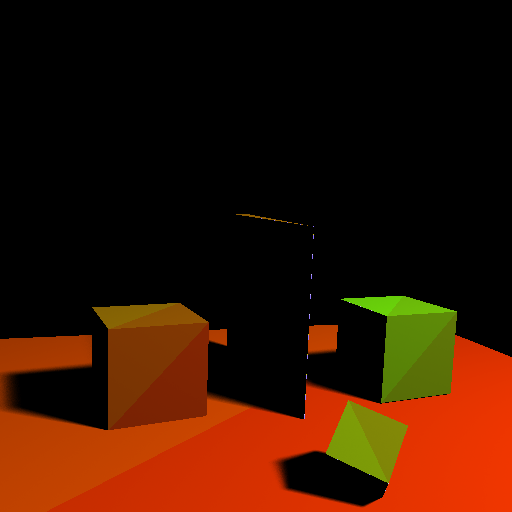
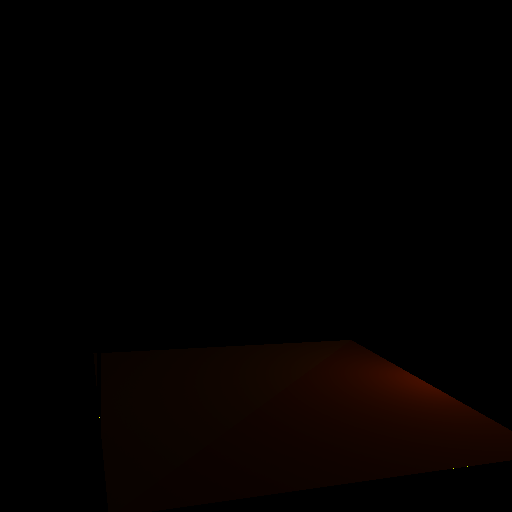
partie 6 Ok

diff --git a/tuto_ray1.cpp b/tuto_ray1.cpp
@@ -102,35 +102,66 @@ float oneFloat( )
     return drand48();
 }
 
+double distance(const gk::Point &p, const gk::Point &q)
+{
+    return sqrt( pow(p.x - q.x, 2) + pow(p.y - q.y, 2) + pow(p.z - q.z, 2)  );
+}
 
-gk::Color direct( const gk::Point& p, const gk::Normal& n, const gk::MeshMaterial& material )
+gk::Color direct( const gk::Point& p, const gk::Normal& n, const gk::MeshMaterial& material , bool proportionnelle)
 {
     gk::Color color(0,0,0);
-    unsigned int nbRayon = 200;
+    unsigned int nbRayon(1000);
     const float r = material.diffuse_color.r, g = material.diffuse_color.g, b = material.diffuse_color.b;
-    const float kd = material.kd;
-    //std::cout<<kd<<std::endl;
 
-    #pragma omp parallel for schedule(dynamic,1)
-    for (unsigned int i = 0; i < sources.size(); ++i)
-    {
-        for (unsigned int j = 1; j < nbRayon+1; ++j)
+    if(!proportionnelle) {
+        //repartition égale des rayons par sources de lumières
+        #pragma omp parallel for schedule(dynamic,1)
+        for (unsigned int i = 0; i < sources.size(); ++i)
         {
-            gk::Point pointSources;
-            float proba = sources[i].triangle.sampleUniform(oneFloat(),oneFloat(),pointSources); // choisi un point aléatoirement sur le triangle   
-                                                                                                 //et retourne la probabilité que le point soit choisi
-            gk::Ray ray(p, pointSources);  // construire le rayon entre le point et la source
-            gk::Hit hit(ray);   // preparer l'intersection
+            for (unsigned int j = 1; j < (nbRayon+1)/sources.size(); ++j)
+            {
+                gk::Point pointSources;
+                float proba = sources[i].triangle.sampleUniform(oneFloat(),oneFloat(),pointSources); // choisi un point aléatoirement sur le triangle   
+                                                                                                    //et retourne la probabilité que le point soit choisi
+                gk::Ray ray(p, pointSources);  // construire le rayon entre le point et la source
+                gk::Hit hit(ray);   // preparer l'intersection
 
-            //float theta = n * ray.d;
-            
-            if(!intersect(ray, hit,true)) { // si pas d'objet entre la source de lumière et la point 
-               color += gk::Color(r, g, b) * - gk::Dot(n, gk::Normalize(p-pointSources))/nbRayon;
+                if(!intersect(ray, hit,true)) { // si pas d'objet entre la source de lumière et la point 
+                    color += gk::Color(r , g , b ) * ( -gk::Dot(n, gk::Normalize(p-pointSources)) )/nbRayon;
+                }
             }
         }
+        #pragma omp barrier
     }
-    #pragma omp barrier
+    else {
 
+        //repartition des rayons proportionnelle à la tailles des sources de lumières
+
+        double surfaceTotale(0.0);
+        //std::vector<double> v.resize(sources.size());
+
+        for (unsigned int i = 0; i < sources.size(); ++i)
+            surfaceTotale += sources[i].triangle.area();
+
+        #pragma omp parallel for schedule(dynamic,1)
+        for (unsigned int i = 0; i < sources.size(); ++i)
+        {
+            double aire = sources[i].triangle.area();
+            for (unsigned int j = 1; j < aire/surfaceTotale*nbRayon; ++j)
+            {
+                gk::Point pointSources;
+                float proba = sources[i].triangle.sampleUniform(oneFloat(),oneFloat(),pointSources); // choisi un point aléatoirement sur le triangle   
+                                                                     //et retourne la probabilité que le point soit choisi
+                gk::Ray ray(p, pointSources);  // construire le rayon entre le point et la source
+                gk::Hit hit(ray);   // preparer l'intersection
+
+                if(!intersect(ray, hit,true)) { // si pas d'objet entre la source de lumière et la point 
+                    color += gk::Color(r, g, b) * ( -gk::Dot(n, gk::Normalize(p-pointSources)) )/nbRayon;
+                }
+            }
+        }
+        #pragma omp barrier
+    }
     return color;
 }
 
@@ -156,7 +187,7 @@ int main( )
     srand48( time(NULL) );
     
     // charger un objet
-    mesh= gk::MeshIO::readOBJ("geometry.obj");
+    mesh= gk::MeshIO::readOBJ("emission.obj");
     if(mesh == NULL) return 1;
 
     build_sources(mesh);        // recupere les sources de lumiere
@@ -164,6 +195,7 @@ int main( )
    
     // creer une image resultat
     gk::Image *image= gk::createImage(512, 512);
+    gk::Image *imageProp= gk::createImage(512, 512);
    
     // definir les transformations
     gk::Transform model;
@@ -199,7 +231,8 @@ int main( )
             gk::Ray ray(o, e);  // construire le rayon
             gk::Hit hit(ray);   // preparer l'intersection
             
-            gk::Color color;    // couleur du pixel.
+            gk::Color color;    // couleur du pixel. 
+            gk::Color colorProp;    // couleur du pixel.
            
             // calculer l'intersection du rayon avec les triangles
             if(intersect(ray, hit))
@@ -212,25 +245,27 @@ int main( )
 
                 // couleur "aleatoire", eventuellement
                 material.diffuse_color= gk::Color(material.diffuse_color) * gk::Color(1.f - float(hit.object_id % 100) / 99.f, float(hit.object_id % 10) / 9.f, float(hit.object_id % 1000) / 999.f);       
-                std::cout<<material.diffuse_texture<<std::endl;
-                //kd * diffuse_color * diffuse_texture + ks * specular_color * specular_texture
-               
+                
                 // calculer l'energie reflechie par le point vers la camera
                 // etape 1 : eclairage direct
-                color += direct(p, normal, material);
+                color += direct(p, normal, material, false);
+                colorProp += direct(p, normal, material, true);
                
                 // etape 2 : eclairage indirect
                 color += indirect(p, normal, material);
+                colorProp += indirect(p, normal, material);
             }
             //else color = gk::Color(0.f,0.f,0.f);
            
             // ecrire la couleur dans l'image
             image->setPixel(x, y, gk::Color(color.r, color.g, color.b, 1.0f));
+            imageProp->setPixel(x, y, gk::Color(colorProp.r, colorProp.g, colorProp.b, 1.0f));
         }
     }
    
     // enregistrer l'image
     gk::ImageIO::writeImage("render.png", image);
+    gk::ImageIO::writeImage("renderProp.png", imageProp);
     delete image;
     
     return 0;
